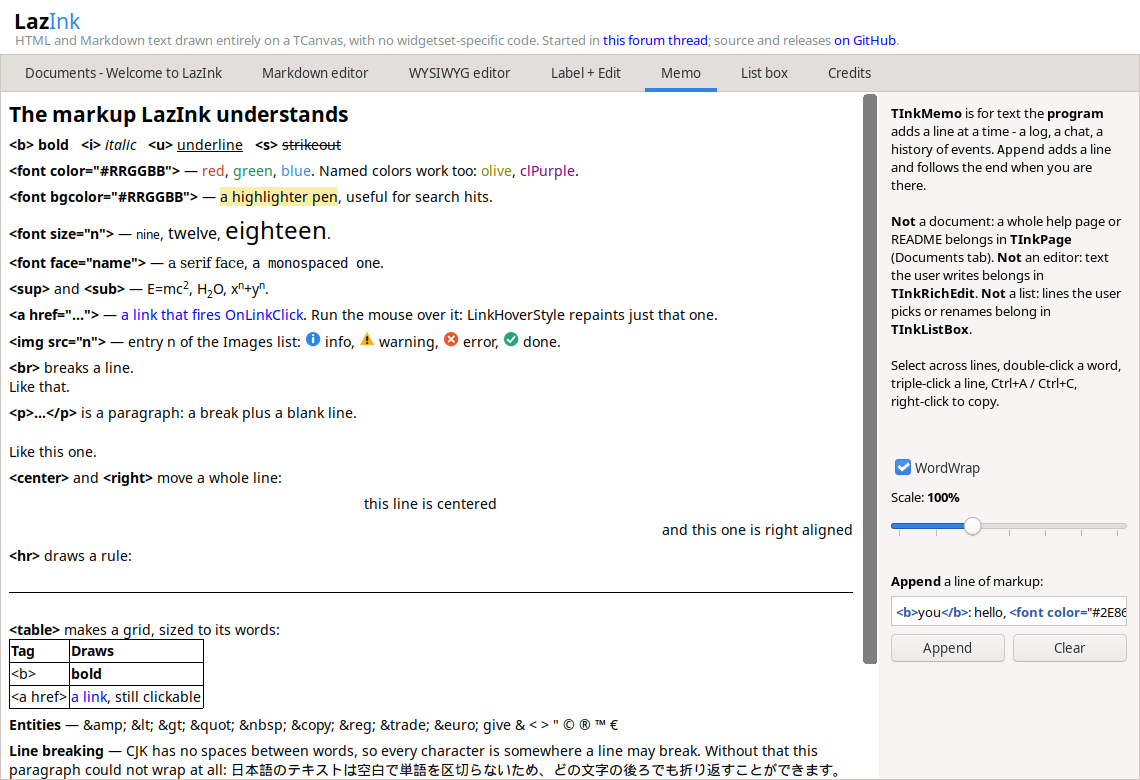
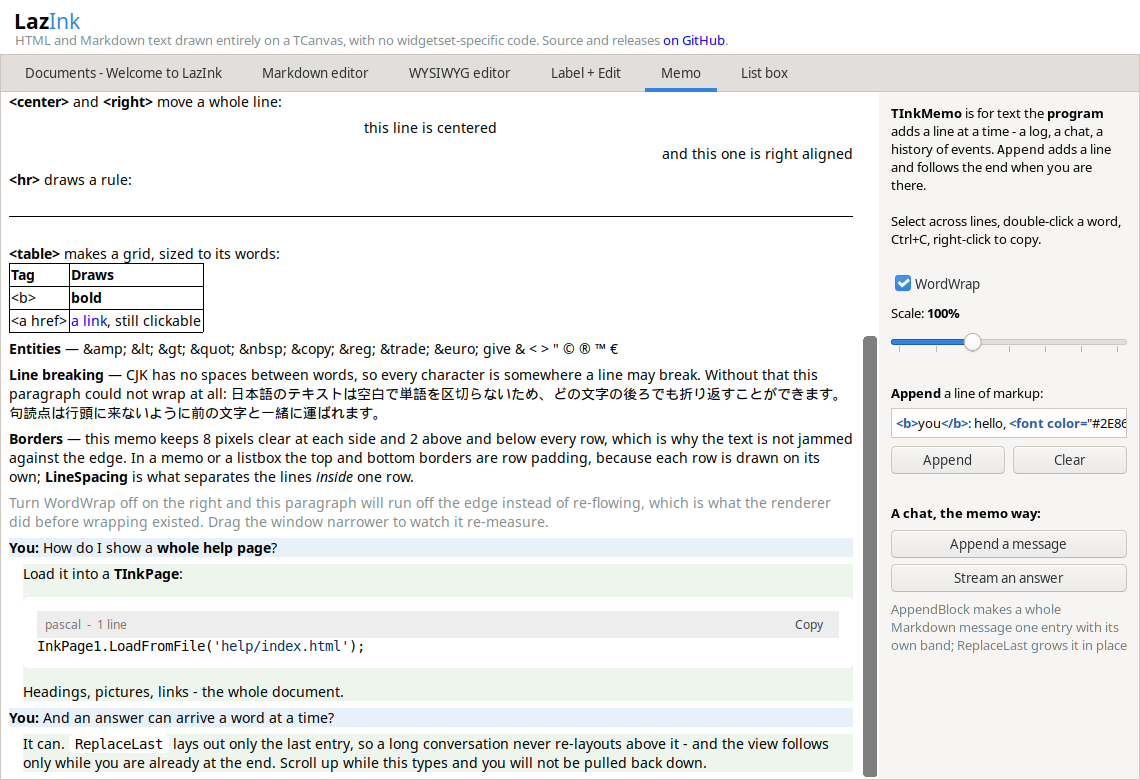
The demo tightened: two toolbar rows, a chat in the memo, no About tab
What the tour needed was less, arranged better. The WYSIWYG toolbar was
one packed row that clipped its own size combo at "defa"; it is two
calm rows now - styles, scripts, colors, the combos at widths that fit
their words, Link, Clear and undo on the first, the paragraph kinds and
alignment on the second. The About tab, a page holding seven lines, is
gone; its words moved to the end of tour.md where the Documents tab
already is.

The memo's sidebar sheds half its prose and gains the features the demo
never showed: Append a message adds a question and a whole Markdown
answer with AppendBlock - each one entry on its own band, fenced code,
header and Copy button included - and Stream an answer grows the last
entry word by word with ReplaceLast. The screenshot run plays the chat
first and scrolls to it, so the repository's memo picture shows it.
Label + Edit gains the PasswordChar toggle on the strength edit and a
TInkCodeMemo whose AutoHeight opens a one-line question box as you type.

And the list box's stripes are no longer black: AlternateColor was
shaded from the control's Color, which is clDefault at load, and
ColorToRGB turns clDefault into black. It resolves through clWindow now.

diff --git a/docs/GUIDE.md b/docs/GUIDE.md
@@ -455,10 +455,15 @@ Markdown it would be saved as, and **Apply** reads either back:
 
 ![The WYSIWYG editor tab](../images/demo-editor.png)
 
-**Label + Edit**, **Memo** and **List box** show the smaller controls - the
-list box is the demo this whole package grew out of, a simulated log arriving
-into an owner-drawn list with an editor that floats into place over the item
-you click:
+**Label + Edit**, **Memo** and **List box** show the smaller controls.
+Label + Edit adds a `PasswordChar` toggle on the strength-colored edit and
+a `TInkCodeMemo` whose `AutoHeight` opens a one-line question box as you
+type.  The memo's sidebar holds a little chat: **Append a message** adds a
+question and a whole Markdown answer with `AppendBlock` - each one entry,
+on its own band - and **Stream an answer** grows the last entry word by
+word with `ReplaceLast`.  The list box is the demo this whole package grew
+out of, a simulated log arriving into an owner-drawn list with an editor
+that floats into place over the item you click:
 
 ![The list box tab](../images/demo-listbox.png)
 

diff --git a/demo/tour.md b/demo/tour.md
@@ -109,3 +109,13 @@ it is a page.
 - **About** - project information and the 0BSD license.
 
 LazInk lives at <https://github.com/TonyStone31/LazInk>.
+
+---
+
+## About
+
+LazInk is HTML and Markdown text controls for Lazarus, drawn with
+TCanvas. **License: 0BSD** - the BSD Zero Clause License: permission to
+use, copy, modify and distribute this software for any purpose with or
+without fee is granted. Lazarus/LCL and Free Pascal dependencies retain
+their own licenses. [Source and documentation on GitHub](https://github.com/TonyStone31/LazInk).
